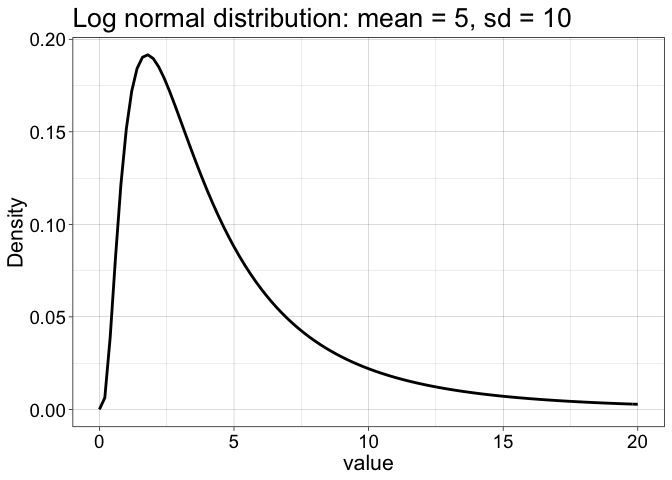
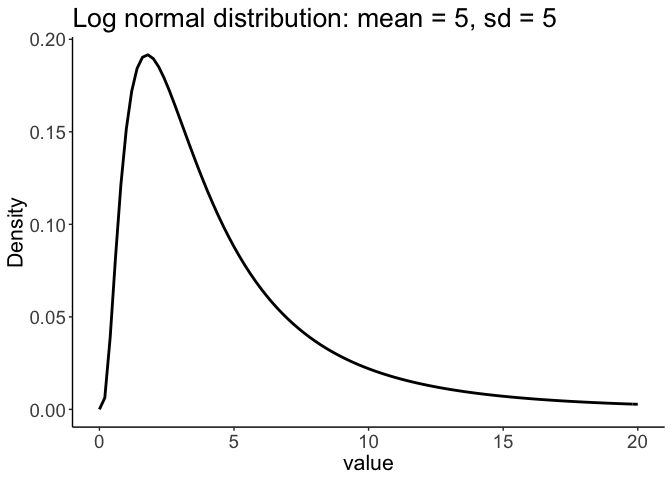
update README, bordeaux3

diff --git a/19-bordeaux/README.md b/19-bordeaux/README.md
@@ -4,9 +4,9 @@ Description on [urfist website](https://sygefor.reseau-urfist.fr/#/training/7680
 
 This workshop provides an introduction to statistical assessment of data using robust estimators, techniques to build confidence intervals such as the percentile bootstrap, and detailed graphical representations. The philosophy underpinning the workshop is described in these articles:
 
-Rousselet, Guillaume A., John J. Foxe, and J. Paul Bolam. 2016. ‘A Few Simple Steps to Improve the Description of Group Results in Neuroscience’. European Journal of Neuroscience 44 (9): 2647–51. [pdf](https://doi.org/10.1111/ejn.13400) [preprint]() [reproducibility package]() .
+Rousselet, Guillaume A., John J. Foxe, and J. Paul Bolam. 2016. ‘A Few Simple Steps to Improve the Description of Group Results in Neuroscience’. European Journal of Neuroscience 44 (9): 2647–51. [pdf](https://doi.org/10.1111/ejn.13400) [reproducibility package](https://figshare.com/articles/A_few_simple_steps_to_improve_the_description_of_group_results_in_neuroscience/3806487) .
 
-Rousselet, Guillaume A., Cyril R. Pernet, and Rand R. Wilcox. 2017. ‘Beyond Differences in Means: Robust Graphical Methods to Compare Two Groups in Neuroscience’. [pdf]() [preprint](https://doi.org/10.1101/121079) [reproducibility package]().
+Rousselet, Guillaume A., Cyril R. Pernet, and Rand R. Wilcox. 2017. ‘Beyond Differences in Means: Robust Graphical Methods to Compare Two Groups in Neuroscience’. [pdf](https://www.ncbi.nlm.nih.gov/pubmed/28544058) [preprint](https://doi.org/10.1101/121079) [reproducibility package](https://figshare.com/articles/Modern_graphical_methods_to_compare_two_groups_of_observations/4055970).
 
 The main topics include:
 
@@ -18,7 +18,9 @@ The main topics include:
 - simulations to assess power and measurement precision;
 - how to go beyond p < 0.05 and make the most of your data.
 
-The slides in pdf format are [here]().
+The slides in pdf format are available on [figshare](https://figshare.com/articles/Introduction_to_robust_statistics_-_Bordeaux_2019/7893104).
+
+Install code and data by downloading this [folder](mat.zip)
 
 ## Part 1: Introduction 
 [code](bordeaux1.Rmd)

diff --git a/19-bordeaux/docs/bordeaux3.md b/19-bordeaux/docs/bordeaux3.md
@@ -245,13 +245,13 @@ location <- log(m^2 / sqrt(s^2 + m^2))
 shape <- sqrt(log(1 + (s^2 / m^2)))
 x <- seq(0, 20, .05)
 ggplot(as_tibble(x), aes(value)) +
-  theme_linedraw() +
+  theme_classic() +
   stat_function(fun = dlnorm, args = list(meanlog = location, sdlog = shape), size = 1) +
   labs(y = "Density") +
   theme(axis.title = element_text(size = 16),
         axis.text = element_text(size = 14),
         plot.title = element_text(size=20)) +
-  ggtitle(paste0("Log normal distribution: mean = ",m,", sd = ",sd))
+  ggtitle(paste0("Log normal distribution: mean = ",m,", sd = ",s))
 ```
 
     ## Warning: Calling `as_tibble()` on a vector is discouraged, because the behavior is likely to change in the future. Use `enframe(name = NULL)` instead.
@@ -272,7 +272,7 @@ n <- 20
 samp <- rlnorm(n, meanlog = location, sdlog = shape)
 x <- seq(0, 20, .05)
 ggplot(as_tibble(x), aes(value)) +
-  theme_linedraw() +
+  theme_classic() +
   stat_function(fun = dlnorm, args = list(meanlog = location, sdlog = shape), size = 1) +
   geom_vline(xintercept = samp, colour = "grey") + 
   geom_vline(xintercept = mean(samp), size = 1.5) + 
@@ -280,7 +280,7 @@ labs(y = "Density") +
   theme(axis.text = element_text(size = 14),
         axis.title = element_text(size = 16),
         plot.title = element_text(size=20)) +
-  ggtitle(paste0("Log normal distribution: mean = ",m,", sd = ",sd))
+  ggtitle(paste0("Log normal distribution: mean = ",m,", sd = ",s))
 ```
 
 ![](bordeaux3_files/figure-markdown_github/unnamed-chunk-14-1.png)
